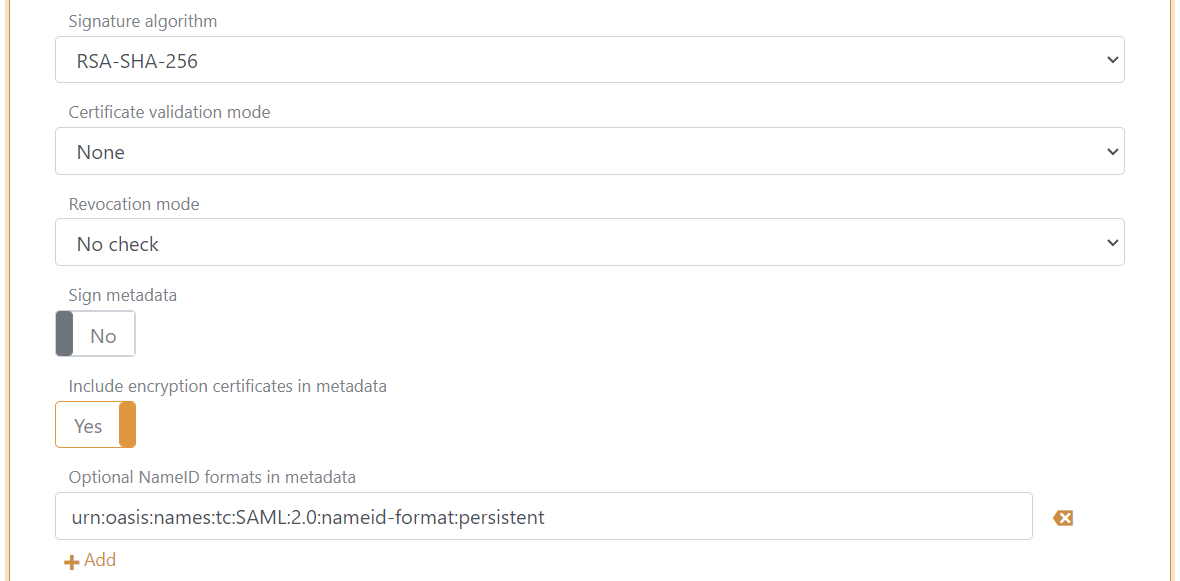
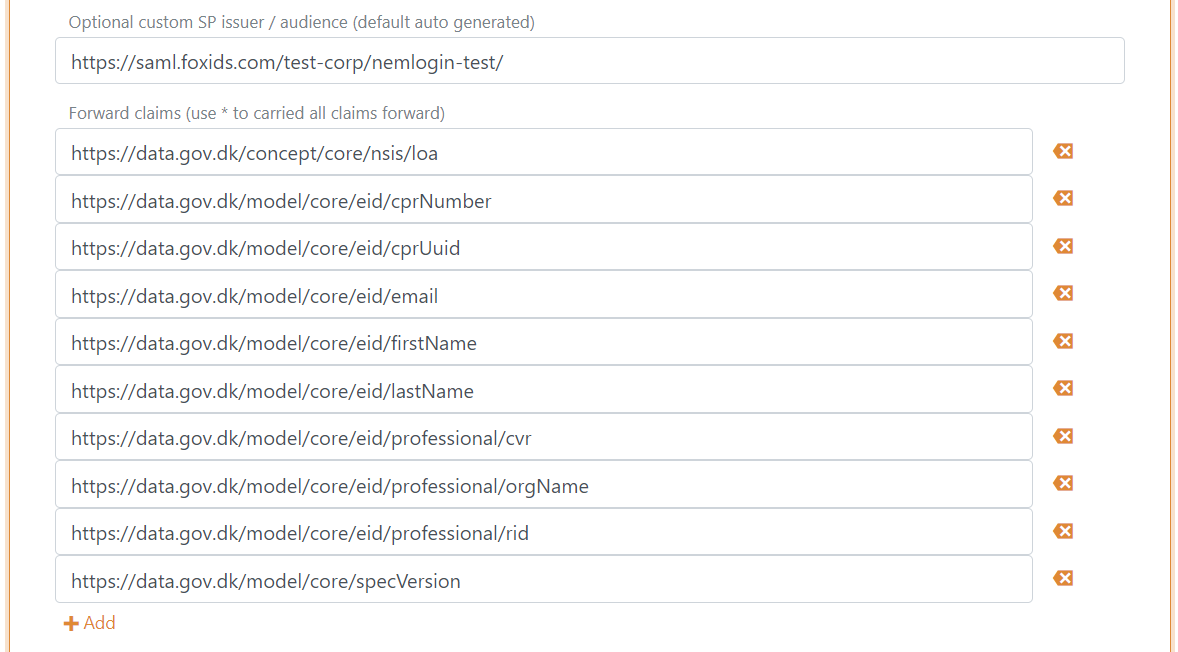
docs NemLogin

diff --git a/docs/up-party-howto-saml-2.0-nemlogin.md b/docs/up-party-howto-saml-2.0-nemlogin.md
@@ -1,39 +1,44 @@
 # Up-party - Connect NemLog-in with SAML 2.0
 
-FoxIDs can be connected to NemLog-in (Danish IdP) with a [up-party SAML 2.0](up-party-saml-2.0.md). Where NemLog-in is a SAML 2.0 Identity Provider and FoxIDs is acting as an SAML 2.0 Relying Party (RP) / Service Provider (SP).
+You can connect FoxIDs to NemLog-in (Danish IdP) with a [up-party SAML 2.0](up-party-saml-2.0.md) and let the users authenticate with MitID. NemLog-in is connected as a SAML 2.0 Identity Provider (IdP).
 
-> NemLog-in give your users access to authenticate with MitID.
+By configuring an [SAML 2.0 up-party](up-party-saml-2.0.md) and a [OpenID Conect down-party](down-party-oidc.md) FoxIDs become a bridge between SAML 2.0 and OpenID Connect. 
+FoxIDs will then handle the SAML 2.0 connection as a Relying Party (RP) / Service Provider (SP) and you only need to care about OpenID Connect in your application. If needed you can possibly select multiple up-parties from the same OpenID Connect down-party.
 
-NemLog-in (currently called NemLog-in3) is a Danish Identity Provider (IdP) which uses the SAML 2.0 based OIOSAML 3. FoxIDs support NemLog-in / OIOSAML 3 including logging, issuer naming, required certificates and it is possible to support NSIS.
+![Connect to NemLog-in](images/how-to-nemlogin.svg)    
+
+FoxIDs support NemLog-in and the SAML 2.0 based OIOSAML3 including logging, issuer naming, required OCES3 certificates and it is possible to support NSIS.
 
 > Transforms the [DK privilege XML claim](claim-transform-dk-privilege.md) to a JSON claim.
 
-NemLog-in documentation and configuration:
+NemLog-in documentation:
 - The [NemLog-in development portal](https://tu.nemlog-in.dk/oprettelse-og-administration-af-tjenester/) with documentation
-  - [test](https://tu.nemlog-in.dk/oprettelse-og-administration-af-tjenester/log-in/dokumentation-og-guides/integrationstestmiljo/), where you can find the NemLog-in IdP-metadata for test and OCES3 test certificates
+  - [test](https://tu.nemlog-in.dk/oprettelse-og-administration-af-tjenester/log-in/dokumentation-og-guides/integrationstestmiljo/), where you can find the NemLog-in IdP-metadata for test and OCES3 test certificate (everyone can use the same test certificate in NemLog-ins test environment)
   - [production](https://tu.nemlog-in.dk/oprettelse-og-administration-af-tjenester/log-in/dokumentation-og-guides/produktionsmiljo/), where you can find the NemLog-in IdP-metadata for production
+- Create OCES3 production certificate in the [certificate administration](https://erhvervsadministration.nemlog-in.dk/certificates) 
 - The [NemLog-in administration portal](https://administration.nemlog-in.dk/) where you configure IT-systems
 - Test environment
   - Create citizens test users in [MitID emulator](https://pp.mitid.dk/test-tool/frontend/#/create-identity) 
   - Create citizens and employee test users in [MitID simulator](https://mitidsimulator.test-nemlog-in.dk/Home/Create) (login with username and password)
-  - OCES3 certificate - [create an organization](https://testportal.test-devtest4-nemlog-in.dk/TU) and [create OCES3 certificates](https://erhvervsadministration.devtest4-nemlog-in.dk/certificates)
 
 > A sample showing the NemLog-in integrations is configured in the FoxIDs `test-corp` with the up-party name `nemlogin_oidc`. The configuration uses a separate track where the NemLog-in integrations is configured and converted from SAMl 2.0 to OpenId Connect.  
-> You can test NemLog-in login with the `AspNetCoreOidcAuthorizationCodeSample` [sample](samples.md#aspnetcoreoidcauthorizationcodesample) application by clicking `OIDC NemLog-in Log in` or by clicking `Log in` and then `Danish NemLog-in`.
+> You can test NemLog-in login with the [online web app sample](https://aspnetcoreoidcallupsample.itfoxtec.com) ([sample docs](samples.md#aspnetcoreoidcauthcodealluppartiessample)) application by clicking `Log in` and then `Danish NemLog-in TEST` for the test environment or `Danish NemLog-in` for production.
 
 ## Consider separate track
 
-NemLog-in requires the Relying Party (RP) to use a OSES certificate and a high level of logging. Therefore, consider connecting NemLog-in in a separate track where the OCES3 certificate and log level can be configured without affecting any other configuration.
+NemLog-in requires the Relying Party (RP) to use a OSES certificate and [extensive logging](#logging). Therefore, consider connecting NemLog-in in a separate track where the OCES3 certificate and log level can be configured without affecting anything else.
 
-You can easy connect two tracks in the same tenant with a [track link](howto-tracklink-foxids.md).
+![Connect to NemLog-in and use track link](images/how-to-nemlogin-track-link.svg)    
+
+You can connect two tracks in the same tenant with a [track link](howto-tracklink-foxids.md).
 
 ## Certificate
 
 NemLog-in requires all requests (authn and logout) from the Relying Party (RP) to be signed. Furthermore, NemLog-in requires the RP to sign with a OCES3 certificate. It is not possible to use a certificate issued by another certificate authority, a self-signed certificate or a certificate issued by FoxIDs.
 
-An OCES3 certificate is valid for three years. After that, it must be updated manually.
+OCES3 test certificates are use in the test environment and OCES3 production certificates are used in production. An OCES3 certificate is valid for three years. After that, it must be updated manually.
 
-> If the `.P12` file fails to load, you can convert it to a `.PFX` file with the [FoxIDs.ConvertCertificateTool](https://github.com/ITfoxtec/FoxIDs/tree/master/tools/FoxIDs.ConvertCertificateTool).
+> If the `.P12` file fails to load in FoxIDs, you can convert it to a `.PFX` file with the [FoxIDs.ConvertCertificateTool](https://github.com/ITfoxtec/FoxIDs/tree/master/tools/FoxIDs.ConvertCertificateTool).
 
 Add the `.P12` OCES3 certificate in [FoxIDs Control Client](control.md#foxids-control-client):
 1. Select (or create) the track to be used for NemLog-in
@@ -42,7 +47,7 @@ Add the `.P12` OCES3 certificate in [FoxIDs Control Client](control.md#foxids-co
 
 ![Change container type](images/howto-saml-nemlogin3-certificate-container-type.png)
 
-4. Then click on the primary certificate, then write the password and upload the `.P12` OCES3 certificate 
+4. Then click on the primary certificate, then write the password and upload the `.P12` / `.PFX`  OCES3 certificate 
 
 ![Add OCES3 certificate](images/howto-saml-nemlogin3-certificate.png)
 
@@ -52,7 +57,7 @@ It is subsequently possible to add a secondary certificate and to swap between t
 
 > You need to [configure the OCES3 certificate](#certificate) before following this configuration.
 
-**1 - Start by creating an SAML 2.0 up-party in [FoxIDs Control Client](control.md#foxids-control-client)**
+**1) - Start by creating an SAML 2.0 up-party in [FoxIDs Control Client](control.md#foxids-control-client)**
 
 1. Select the Parties tab and then the Up-parties
 2. Click Create up-party and then SAML 2.0
@@ -69,10 +74,11 @@ It is subsequently possible to add a secondary certificate and to swap between t
 
 ![NemLog-in SAML 2.0 up-party](images/howto-saml-nemlogin3-up-read-metadata.png)
 
-10. Configure a custom SP issuer, the issuer is required to start with `https://saml.`
-    - The issuer in this example `https://saml.foxids.com/test-corp/nemlogin-test/`
+10. Configure a custom SP issuer, the issuer can start with `https://saml.`
+    - The issuer in this example is `https://saml.foxids.com/test-corp/nemlogin-test/`
 11. Remove the `*` and configure claims, the following claims is most often used:
     - `https://data.gov.dk/concept/core/nsis/loa`
+    - `https://data.gov.dk/model/core/eid/cprNumber`
     - `https://data.gov.dk/model/core/eid/cprUuid`
     - `https://data.gov.dk/model/core/eid/email`
     - `https://data.gov.dk/model/core/eid/firstName`
@@ -81,6 +87,7 @@ It is subsequently possible to add a secondary certificate and to swap between t
     - `https://data.gov.dk/model/core/eid/professional/orgName`
     - `https://data.gov.dk/model/core/eid/professional/rid`
     - `https://data.gov.dk/model/core/specVersion`
+    - optionally include the privilege claim, see step 3)
 
 ![NemLog-in SAML 2.0 up-party](images/howto-saml-nemlogin3-up-claims.png)
 
@@ -104,9 +111,9 @@ It is subsequently possible to add a secondary certificate and to swap between t
  20. Download the SAML 2.0 up-party SP-metadata, in this case https://foxids.com/test-corp/nemlogin-test/.nemlogin./saml/spmetadata. 
  21. The SP-metadata file is used to configure the NemLog-in IT system.
  
- **2 - Then go to the [NemLog-in adminstration protal](https://administration.nemlog-in.dk/)**
+ **2) - Then go to the [NemLog-in adminstration protal](https://administration.nemlog-in.dk/)**
 
- > You need to create an NemLog-in IT-system or have someone else creating an NemLog-in IT-system and assign you access.
+First you need to create an NemLog-in IT-system or have someone else creating an NemLog-in IT-system and assign you access.
 
 1. Select the IT-system
 2. Click upload metadata file and upload the SAML 2.0 up-party SP-metadata file
@@ -114,11 +121,13 @@ It is subsequently possible to add a secondary certificate and to swap between t
 4. Click the button Save the technical details
 5. Click Provision to integrationtest and then click Apply for integration test
 
- **3 - Optionally - add privilege claim transformation in [FoxIDs Control Client](control.md#foxids-control-client)**
+> To configure production you need to upload a test report, have it approved and then repeat the FoxIDs and NemLog-in configuration.
+
+ **3) - Optionally - add privilege claim transformation in [FoxIDs Control Client](control.md#foxids-control-client)**
 
 *Optionally, if you are using the privilege claim.*
 
-FoxIDs can transforms the [DK privilege XML claim](claim-transform-dk-privilege.md) to a JSON claim. It is recommended to add the transformation in order to obtain smaller claims and tokens.  
+FoxIDs can transforms the [DK privilege XML claim](claim-transform-dk-privilege.md) to a JSON claim. It is recommended to add the transformation in order to obtain smaller claims and tokens. 
 Furthermore, it makes the tokens readable.
 
 1. Set the privilege claim depending of the Context Handler version. 
@@ -128,27 +137,22 @@ Furthermore, it makes the tokens readable.
 
  **4 - Add SAML 2.0 claim to JWT claim mappings in [FoxIDs Control Client](control.md#foxids-control-client)**
 
- FoxIDs internally converts SAML 2.0 clams to JWT claims. NemLog-in / OIOSAML 3 defines a set of SAML 2.0 claims where JWT mappings need to be added.
+ FoxIDs internally converts SAML 2.0 clams to JWT claims. NemLog-in / OIOSAML3 defines a set of SAML 2.0 claims where JWT mappings need to be added.
 
- 1. Go to Settings tab and Claim mappings
- 2. Add mappings for all the claims configured in step 1.11, you can create you own short JWT claim names if no standard name exist
+ 1. Go to the Settings tab and Claim mappings
+ 2. Add mappings for all the claims configured in step 1.11, optionally also include mapping for the privilege claim, you can create you own short JWT claim names
  3. Click update
 
 ![Claim mappings](images/howto-saml-nemlogin3-claim-mappings.png)
 
-You are done. The SAML 2.0 up-party can now be used as an up-party for down-parties in the track.
-
-> A down-party will only issue added claims.  
-> Therefore, remember to add the JWT claims to OpenID Connect down-parties.
-
-See [Consider separate track](#consider-separate-track) on how to connect the NemLog-in track.
+The SAML 2.0 up-party can now be used as an up-party for down-parties in the track.
 
 ## Logging
 
-NemLog-in requires requests and responses to be logged including the signature proof and stored for half a year (180 days). It is also required to log which identity have done login and logout of which session, at what time and the IP address.  
+NemLog-in requires requests and responses to be logged including the signature proof and stored for half a year (180 days). It is also required to log which identity has login and logout of which session, at what time and the IP address.  
 [FoxIDs default log](logging.md) errors and events including the time and the IP address.
 
-> FoxIDs.com stores log data between 90 days to 180 days depending on the selected plan.
+> [FoxIDs.com](https://www.foxids.com) stores log data between 90 days to 180 days depending on the selected plan.
 
 It can be configured which logs should be logged to the Application Insights which is part of the FoxIDs installation or to an external repository with a [log stream](logging.md#log-stream).
 
